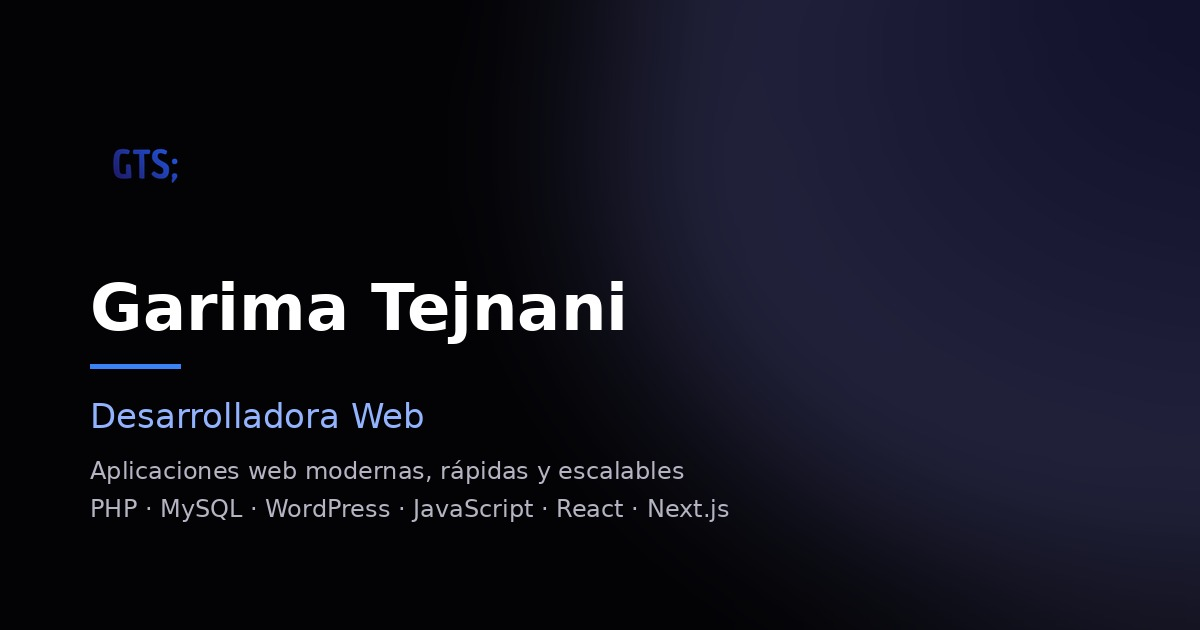
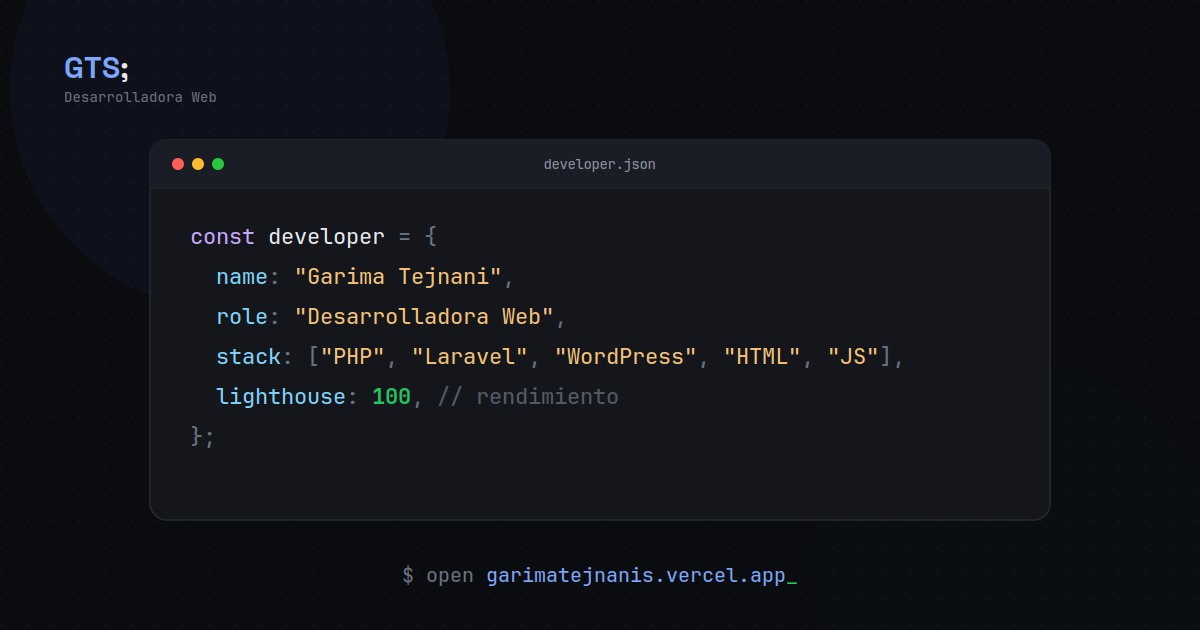
finalizado

diff --git a/app/layout.tsx b/app/layout.tsx
@@ -32,7 +32,7 @@ export const metadata: Metadata = {
     url: "/",
     title: "Garima Tejnani – Desarrolladora Web",
     description:
-      "Portafolio profesional de Garima Tejnani, desarrolladora web especializada en PHP, MySQL, WordPress y JavaScript.",
+      "Desarrolladora web con experiencia en proyectos reales. Portfolio con enfoque en calidad de código, rendimiento y experiencia de usuario.",
     siteName: "Garima Tejnani",
 
     //Para que la imagen se vea bien en redes sociales.
@@ -42,7 +42,7 @@ export const metadata: Metadata = {
         width: 1200,
         height: 630,
         alt: "Garima Tejnani – Desarrolladora Web",
-      }, 
+      },
     ],
   },
 };

diff --git a/app/globals.css b/app/globals.css
@@ -236,14 +236,11 @@ p {
   background: #000;
   padding: 12px 0;
   position: fixed;
-    top: 0;
-    left: 0;
-    width: 100%;
-    z-index: 1000;
-  
+  top: 0;
+  left: 0;
+  width: 100%;
+  z-index: 1000;
 }
-
-
 
 .cabecera-nav {
   height: 80px;
@@ -855,9 +852,13 @@ section#inicio {
   /*cabecera*/
 
   .cabecera {
-    position: sticky;
+    background: #000;
+    padding: 12px 0;
+    position: fixed;
     top: 0;
-    z-index: 9999;
+    left: 0;
+    width: 100%;
+    z-index: 1000;
   }
   
   .cabecera-menu {
@@ -935,7 +936,7 @@ section#inicio {
 
   section#inicio {
     padding-top: 30px !important;
-}
+  }
 
   .skillsWrapper {
     gap: 1rem;
